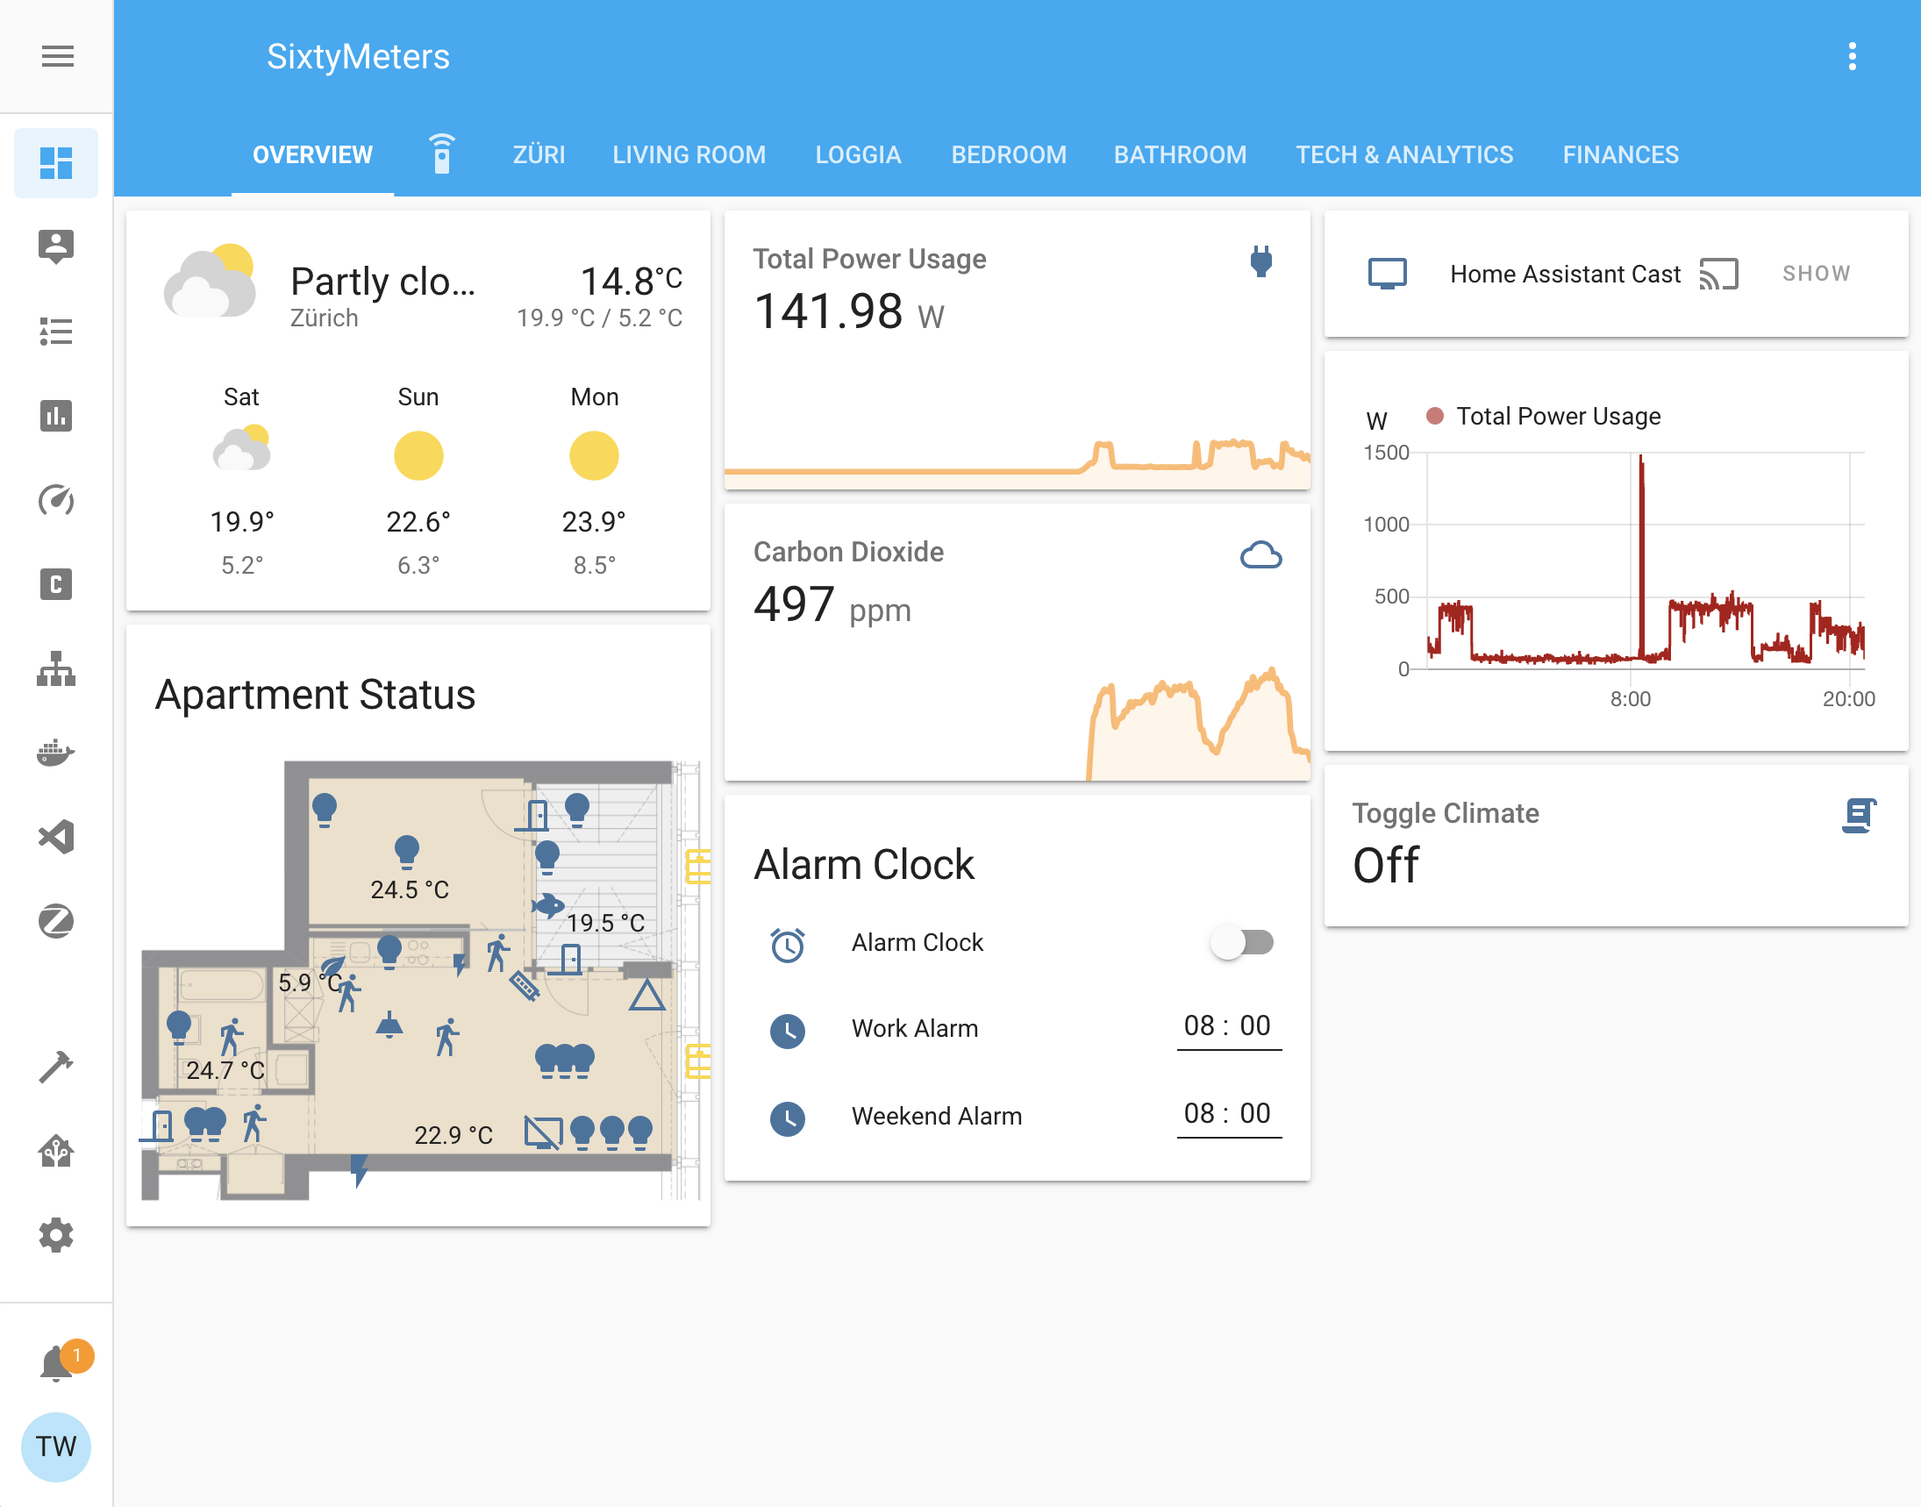
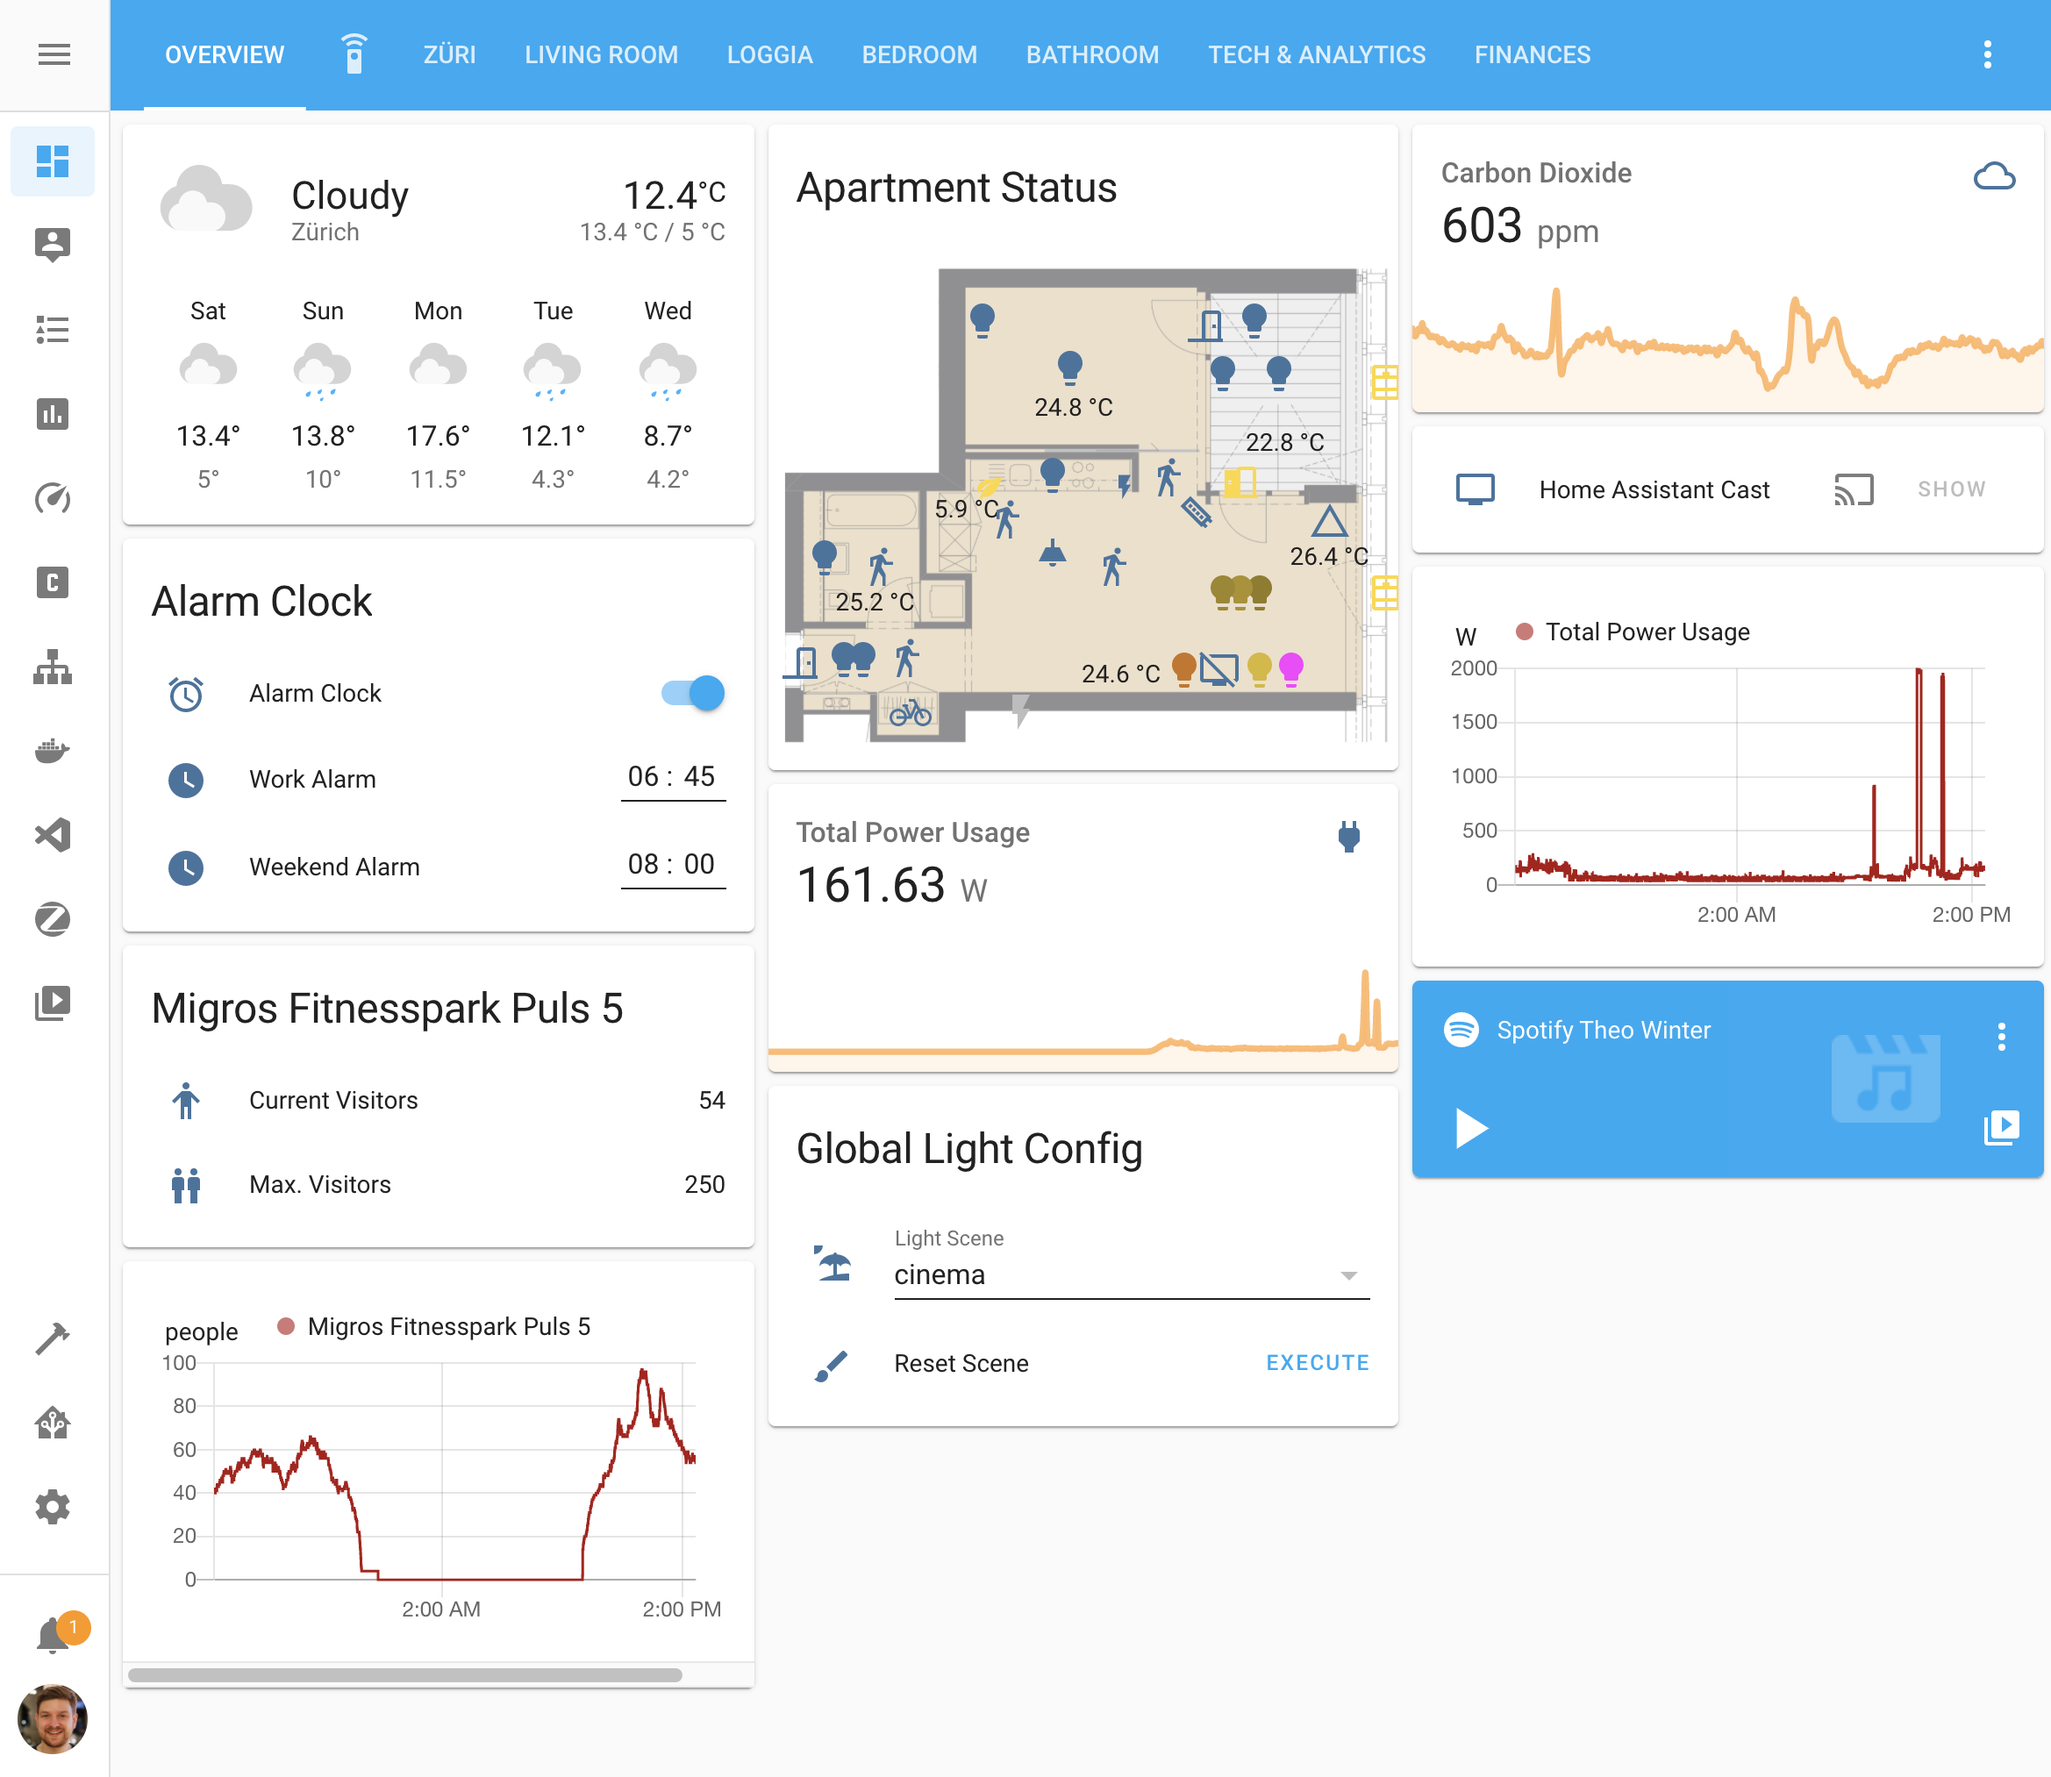
Updated documentation, added node-red section, added iOS Tv remote automation, added updated overview screenshot

diff --git a/docs/automations/index.md b/docs/automations/index.md
@@ -1,5 +1,5 @@
 
-All of these automations are built in Node-RED. And they're automating devices configured in Home Assistant.
+All of these automations are built in [Node-RED](/SmartHome/software/node-red/). And they're automating devices configured in Home Assistant.
 
 ## Universal
 
@@ -68,6 +68,24 @@ I've set up a charging station for various camera batteries, drone, battery pack
 ![Charging Station Node-RED](charging-station-automation.png){: style="width:500px"}
 
 ## TV & Entertainment
+
+### iOS TV Remote
+iOS has a virtual TV remote in the control center. This remote can be used to control Apple TVs but also Homekit-compatible TVs of other manufacturers. Since my TV doesn't support Homekit natively I wanted to recreate this feature using a [Logitech IR](/SmartHome/hardware/#logitech-harmony-hub) blaster that sends the remote control commands to the TV.
+
+<blockquote class="twitter-tweet"><p lang="en" dir="ltr">Samsung TV playing nice with the native iOS remote utility 😄 - of course using <a href="https://twitter.com/home_assistant?ref_src=twsrc%5Etfw">@home_assistant</a> for the integration. The commands are sent over IR so really any TV could be added like this <a href="https://t.co/tehkkdGzei">pic.twitter.com/tehkkdGzei</a></p>&mdash; Theo Winter (@eletiy) <a href="https://twitter.com/eletiy/status/1281320444931514382?ref_src=twsrc%5Etfw">July 9, 2020</a></blockquote> <script async src="https://platform.twitter.com/widgets.js" charset="utf-8"></script>
+
+![Samsung iOS TV Remote](apple-tv-remote.png)
+
+So what it does is listen to `homekit_tv_remote_key_pressed` events, check that they're for the correct TV and then map them to the individual IR blaster commands. E.g. `payload.event.key_name = arrow_left` maps to `remote.send_command` with the following payload:
+
+```json
+{
+    "device": "Samsung TV",
+    "command": [
+        "DirectionLeft"
+    ]
+}
+```
 
 ### TV App Launcher
 This one is a bit of a monster. Basically what it allows is to have a Channel selector drop down in the frontend where you can choose the App that should

diff --git a/docs/software/overview.md b/docs/software/overview.md
@@ -3,12 +3,12 @@ it's hard to draw a clear line.
 
 ## Home Automation
 
-### Home Assistant
+### [Home Assistant](/SmartHome/software/home-assistant/)
 [Home Assistant](/SmartHome/software/home-assistant/) is the core of my smart home setup. It's an open source home automation software written in Python that runs locally on a computer as small as a Raspberry Pi or as powerful as the user desires. At the time of me writing this it supports over 1500 integrations with various smart home devices & services. It is actively developed and has a regular release cycle of 3 weeks. Updates are frequent and of good quality.  
 I'm running my [Home Assistant](/SmartHome/software/home-assistant/) instance on a Intel NUC in supervised mode. This means I provide my own OS of choice (Ubuntu) and Home Assistant runs a supervisor software on top that manages the docker containers used by itself and addons.
 
-### Node-RED
-Node-RED is a programming tool for wiring together hardware devices, APIs and online services. It provides a web-editor that makes it easy to wire together flows using a wide range of nodes. Changes can be deployed with a single-click. Node-RED was originally developed by IBM but has since been contributed to the open source JS Foundation project.
+### [Node-RED](/SmartHome/software/node-red/)
+[Node-RED](/SmartHome/software/node-red/) is a programming tool for wiring together hardware devices, APIs and online services. It provides a web-editor that makes it easy to wire together flows using a wide range of nodes. Changes can be deployed with a single-click. Node-RED was originally developed by IBM but has since been contributed to the open source JS Foundation project.
 I run Node-RED as a addon in Home Assistant and I use it to create & run a ton of simple and complicated automations. Some of my favorite automations are: only starting the cleaning robot when I'm not home, reminding me that the washing machine has finished with a push notification & google home announcement, and operating various lights fully automatically.
 
 ### Visual Studio Code

diff --git a/docs/software/node-red/index.md b/docs/software/node-red/index.md
@@ -1,0 +1,16 @@
+I use a [Home Assistant](/SmartHome/software/home-assistant/) addon called "Node-RED" for most of my automations. Node-RED is a low-code programming tool for wiring together hardware devices, APIs and online services. It was originally developed by IBM and is now part of the [OpenJS Foundation](https://nodered.org/). It can also be used standalone, e.g. without Home Assistant. But when used as a Home Assistant addon you automatically gain access to all devices, services etc. that are known to Home Assistant. This makes it really easy to wire together useful automations.
+
+## Node-RED configuration
+Node-RED is configured in it's UI. The resulting configuration is stored in a ["node-red" folder](https://github.com/aerobless/home-assistant-configuration/tree/master/node-red). Although it can be checked in it's not really meant to be human-readable or editable outside of Node-RED.
+
+![Node-RED overview](node-red-overview.png)
+
+
+## Why use Node-RED over the Home Assistant built-in automation features?
+These days pretty much everything that can be done in Node-RED could also be created as a native Home Assistant automation. However personally I still prefer Node-RED for the following reasons:
+
++ Easy debugging: with Node-RED you can simply attach a debug node and see exactly where the automations fails. Logs are immediately visible and can be restricted to the automation you're trying to debug.
++ Fast re-deployment: Re-deploying all automations is just a button click away and takes between 2-3seconds.
++ All automations and their components are visible at once and can easily be interconnected and copy&pasted for re-use.
+
+The downside of using Node-RED is that the resulting configuration is not really human-readable and sharing automations is not exactly easy.

diff --git a/docs/software/home-assistant.md b/docs/software/home-assistant.md
@@ -1,4 +1,9 @@
-[Home Assistant](https://home-assistant.io/) is the brains of the whole operation. It controls all my smart devices and it provides a bit of an integration layer to connect everything to Google Home and Apple Homekit.
+[Home Assistant](https://home-assistant.io/) is the brains of the whole operation. It controls all my smart devices and it provides a bit of an integration layer to connect everything to the Google Home and Apple Homekit ecosystems.
+
+## Configuration
+Home Assistant is configured over its UI and a set of .yaml configuration files. Most of my configuration is checked in [here](https://github.com/aerobless/home-assistant-configuration). The entry point of the configuration is the [configuration.yaml](https://github.com/aerobless/home-assistant-configuration/blob/master/configuration.yaml) file at the root of the repository. To keep the configuration easier to maintain and read I've split off several sub configurations. You can recognize those by the `!include example.yaml` instructions in the main configuration.yaml.
+
+Passwords, auth tokens and other secrets are stored in a secrets.yaml file that is not checked in. You can recognize those by the `!secret id` instructions in the configuration.
 
 ## Screens
 

diff --git a/docs/index.md b/docs/index.md
@@ -8,4 +8,4 @@ still very much a work in progress so it might be a bit rough around the edges.
 + [Hardware](hardware/)
 
 ## Technology Overview
-[![Smart Home Overview](smart-home-overview.jpg)](https://www.draw.io/#Uhttps://aerobless.github.io/SmartHome/smart-home.drawio)
+[![Smart Home Overview](smart-home-overview.jpg)](/smart-home-overview.jpg)
